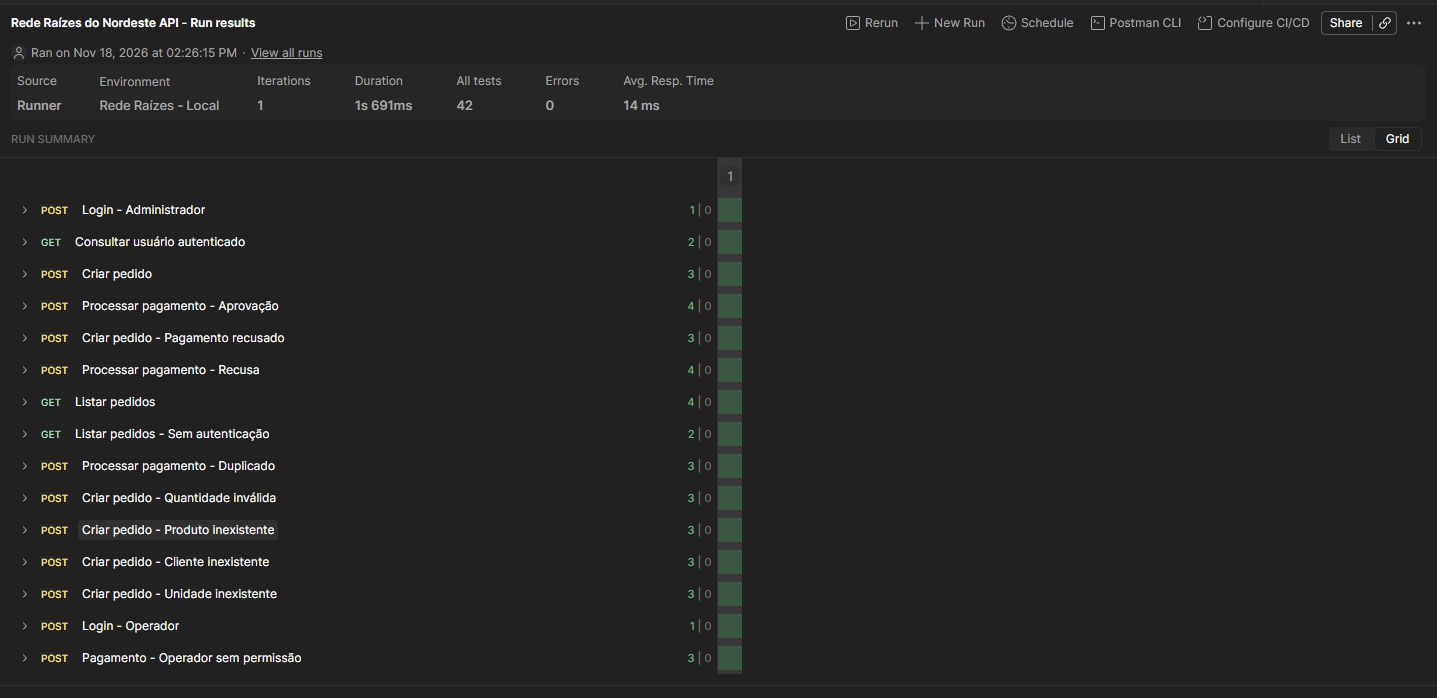
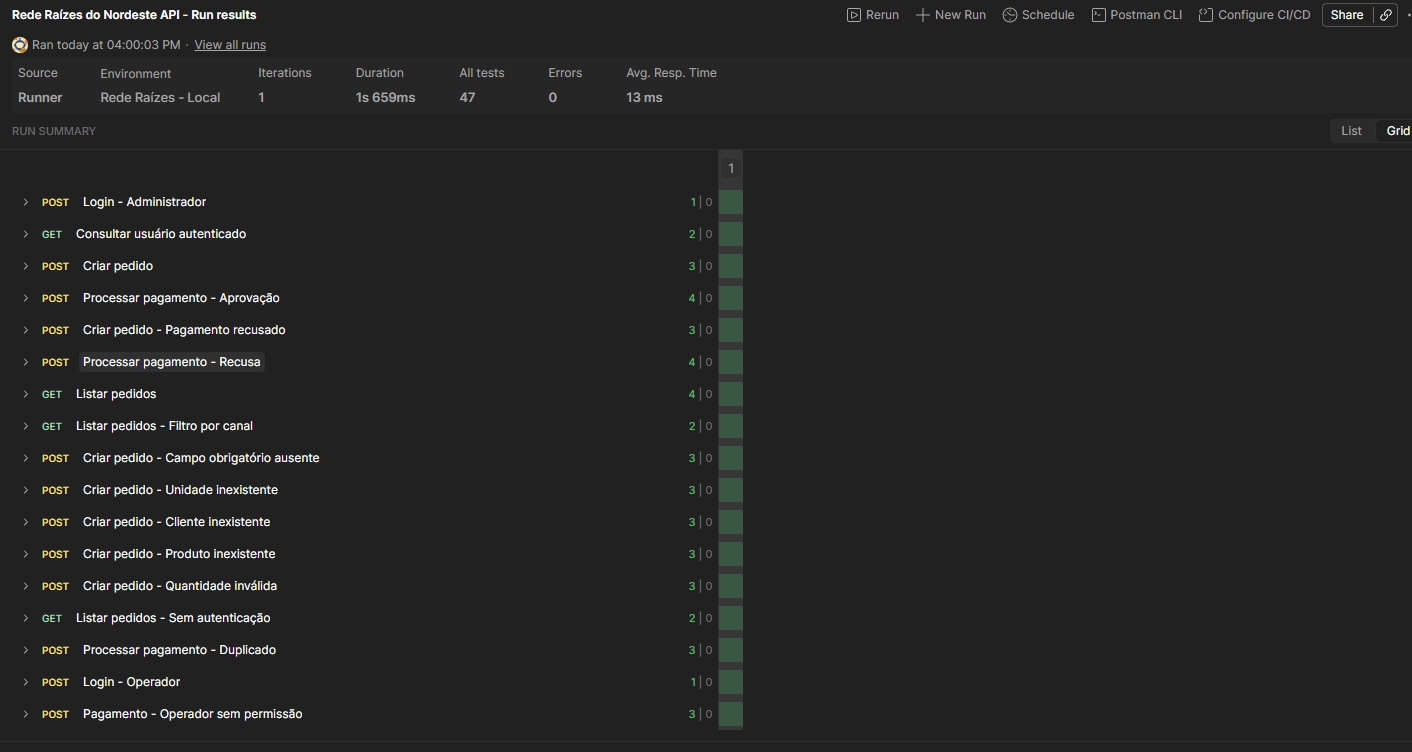
feat: adiciona filtro de pedidos por canal e atualiza testes

diff --git a/app/api/routes/pedidos.py b/app/api/routes/pedidos.py
@@ -38,13 +38,19 @@ def get_db():
 @router.get("/")
 def listar_pedidos(
         db: Annotated[Session, Depends(get_db)],
-        usuario: Annotated[Usuario, Depends(obter_usuario_atual)]
+        usuario: Annotated[Usuario, Depends(obter_usuario_atual)],
+        canal_pedido: str = None
 ):
     consulta = db.query(PedidoModel)
 
     if usuario.perfil == "OPERADOR":
         consulta = consulta.filter(
             PedidoModel.unidade_id == usuario.unidade_id
+        )
+
+    if canal_pedido is not None:
+        consulta = consulta.filter(
+            PedidoModel.canal_pedido == canal_pedido
         )
 
     pedidos = consulta.all()

diff --git a/docs/testes/PLANO_DE_TESTES.md b/docs/testes/PLANO_DE_TESTES.md
@@ -41,3 +41,6 @@ Os testes foram realizados utilizando o Postman, por meio de requisições HTTP 
 | CT14 | Login do operador com credenciais válidas | Positivo | POST /auth/login | Retornar HTTP 200 e um token JWT | Aprovado: HTTP 200 e token JWT retornado |
 | CT15 | Operador tentar processar pagamento de pedido de outra unidade | Negativo | POST /pedidos/{pedido_id}/pagamento | Retornar HTTP 403 e impedir a operação | Aprovado: HTTP 403 e mensagem de acesso não permitido |
 | CT16 | Criar pedido sem informar o cliente | Negativo | POST /pedidos/ | Retornar HTTP 422 e informar que o campo cliente_id é obrigatório | Aprovado: HTTP 422 e detalhe indicando Field required em cliente_id |
+| CT17 | Administrador consultar pedidos filtrando pelo canal APP | Positivo | GET /pedidos/?canal_pedido=APP | Retornar HTTP 200 e somente pedidos cujo canal_pedido seja APP | Aprovado: consulta executada no Swagger e retornou somente pedidos do canal APP |
+| CT18 | Operador consultar pedidos filtrando pelo canal APP | Positivo | GET /pedidos/?canal_pedido=APP | Retornar HTTP 200 e somente pedidos do canal APP pertencentes à unidade do operador | Aprovado: consulta executada no Swagger e retornou somente pedidos APP da unidade 1 |
+| CT19 | Verificar isolamento por unidade durante a consulta filtrada | Negativo | GET /pedidos/?canal_pedido=APP | Não retornar pedidos de outras unidades, mesmo que correspondam ao canal informado | Aprovado: pedido 13 da unidade 2 não apareceu na consulta do operador vinculado à unidade 1 |
